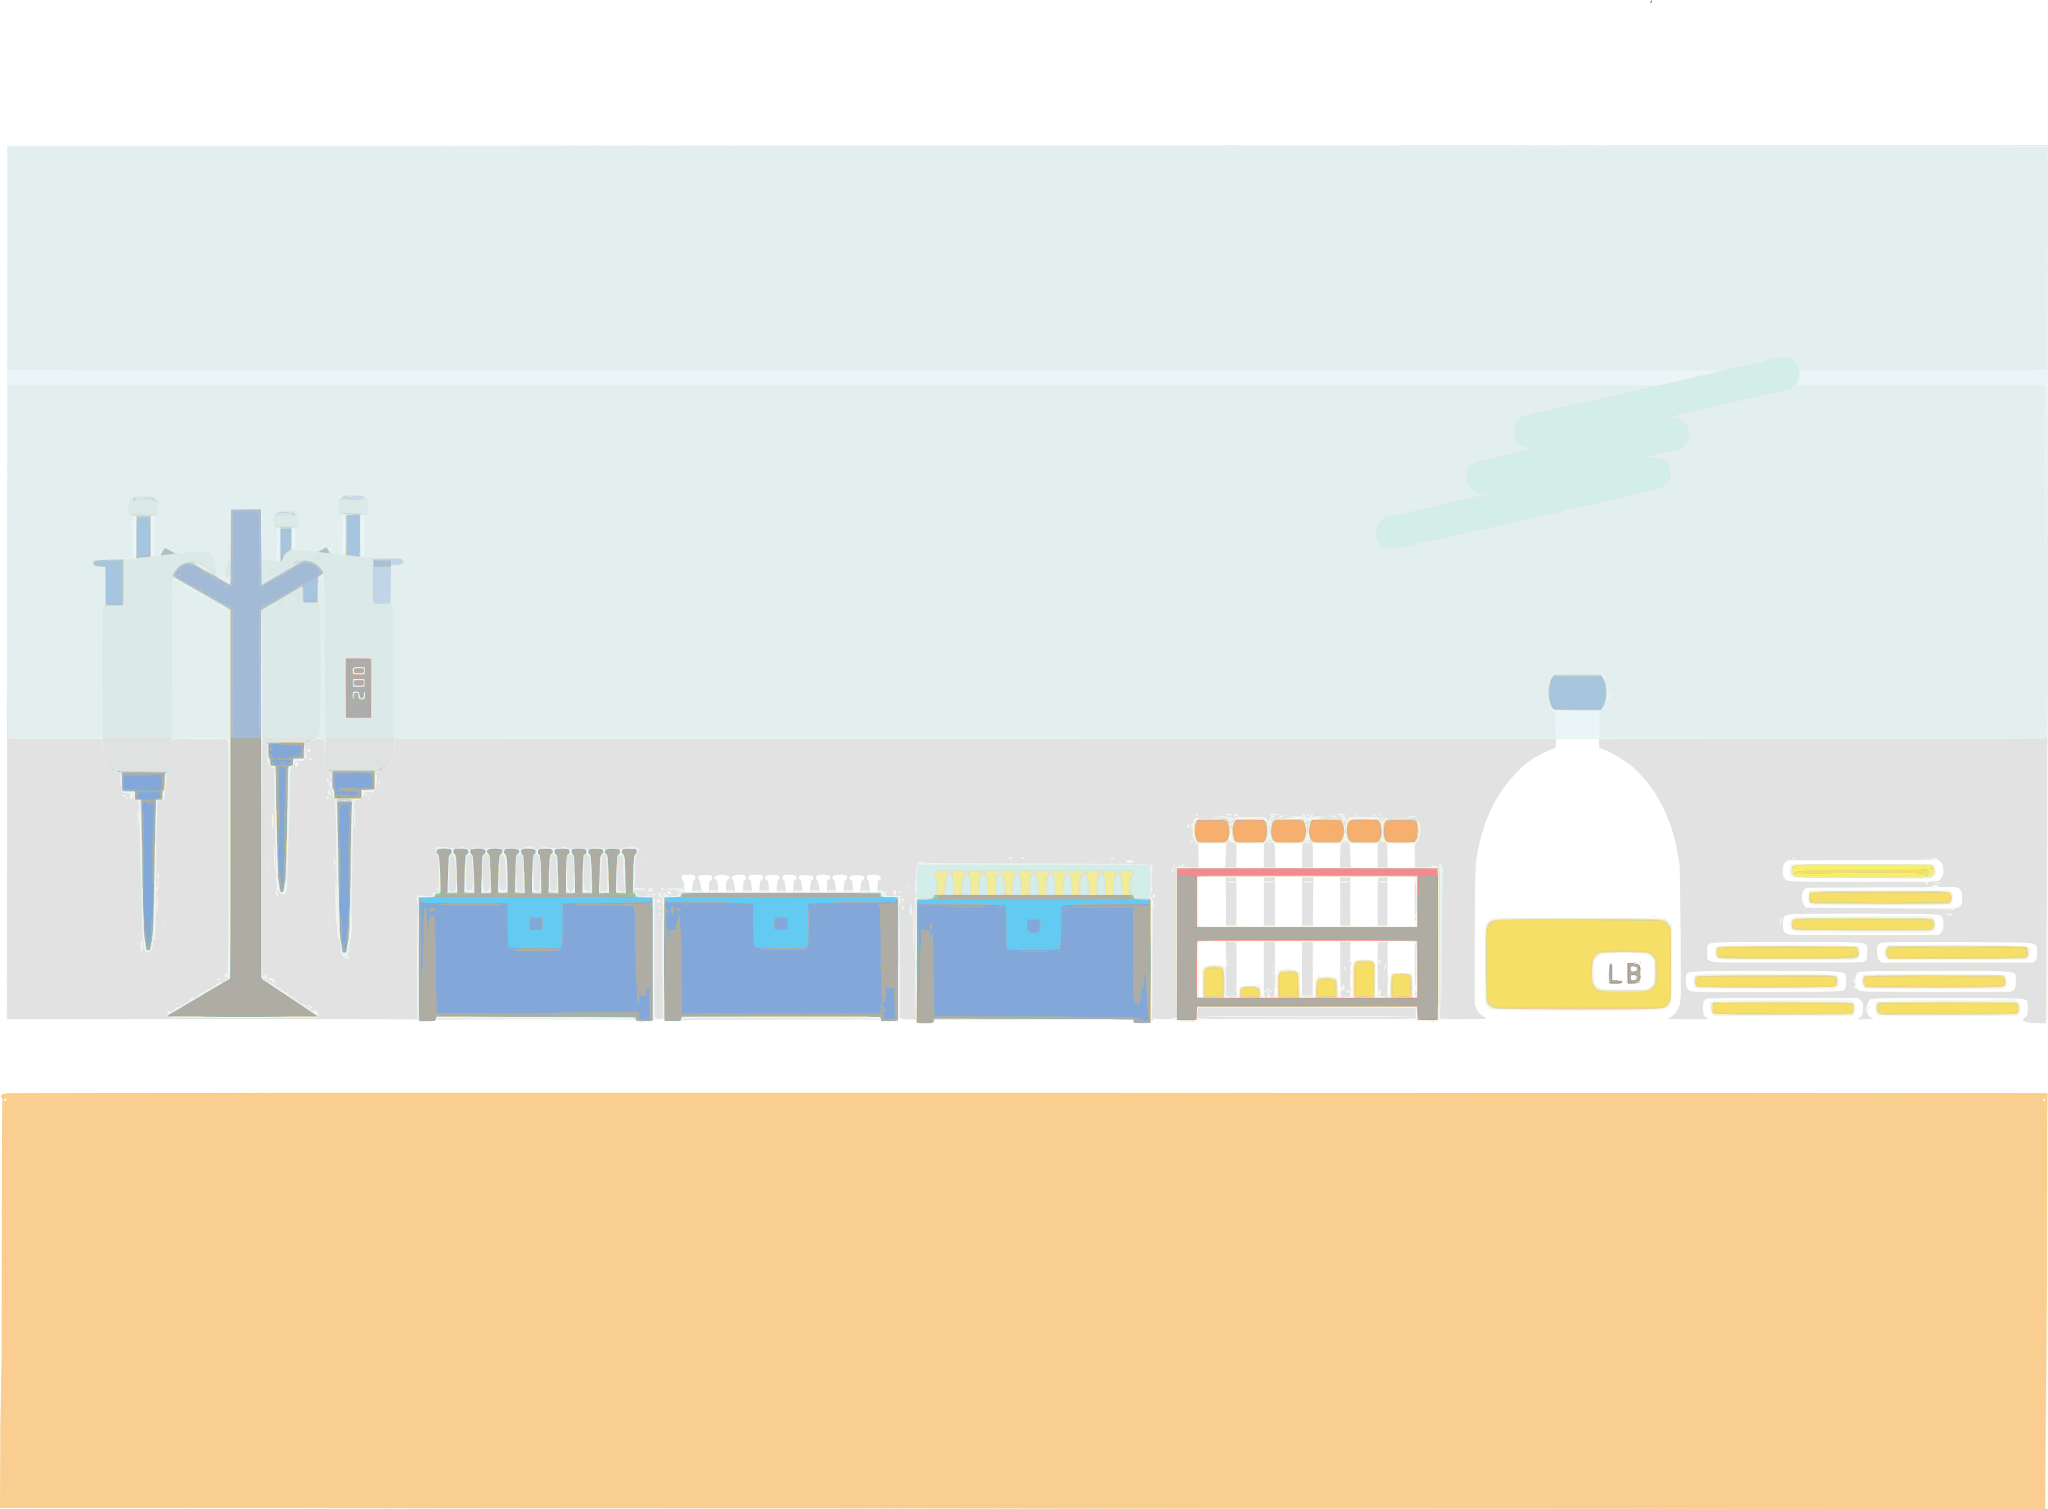
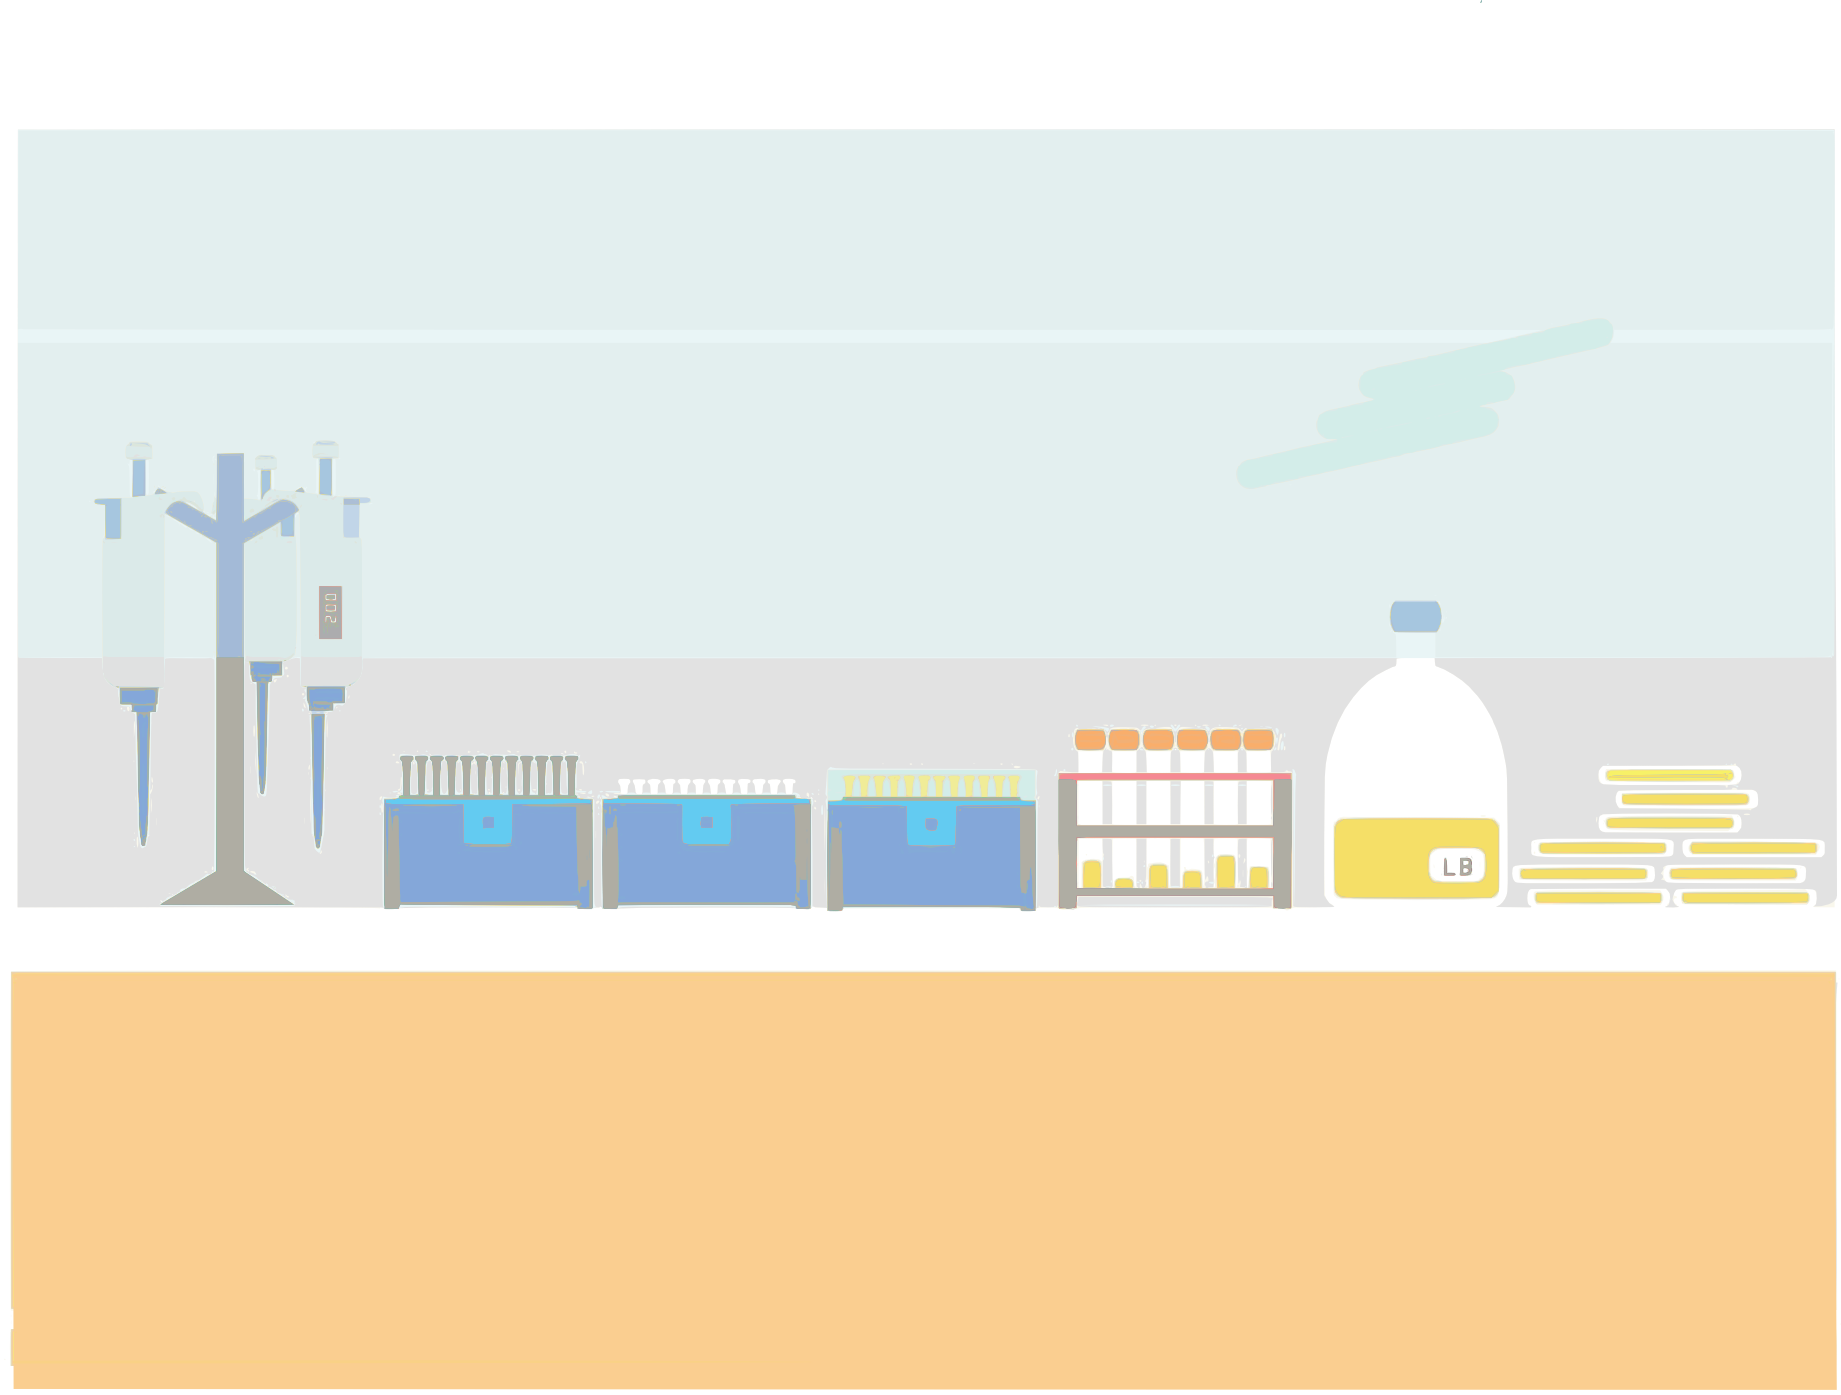
PianoGame: Updated background

Changed region(s): [[0.0, 0.0925, 1.0, 1.0]]

diff --git a/app/src/main/java/com/ionis/igem/app/game/PianoGame.java b/app/src/main/java/com/ionis/igem/app/game/PianoGame.java
@@ -36,7 +36,7 @@ public class PianoGame extends BaseGame {
     @Override
     public List<GFXAsset> getGraphicalAssets() {
         if (graphicalAssets.isEmpty()) {
-            graphicalAssets.add(new GFXAsset(ResMan.PIANO_BG, 2048, 1509, 0, 0));
+            graphicalAssets.add(new GFXAsset(ResMan.PIANO_BG, 1841, 1395, 0, 0));
             graphicalAssets.add(new GFXAsset(ResMan.PIANO_L_PHO, 732, 512, 0, 0));
             graphicalAssets.add(new GFXAsset(ResMan.PIANO_POLY, 1536, 1014, 0, 0, 2, 1));
             graphicalAssets.add(new GFXAsset(ResMan.PIANO_A, 317, 1024, 0, 0));
